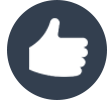
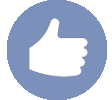
Implementation like

diff --git a/template/liste.html b/template/liste.html
@@ -45,14 +45,14 @@
     <div class="tiret"></div>
     <div>
         <div style="float: left">
-            <span class="souris_dessus_souligne souris_dessus_pointer"><img src="../static/images/like.png" width="15">
-                <span *ngIf="!idea?.voteUser">Je vote</span>
-                <span *ngIf="idea?.voteUser">Je ne vote plus</span>
+            <span class="souris_dessus_souligne souris_dessus_pointer">
+                <span *ngIf="!idea?.voteUser" (click)="vote(idea?.id)" style="color: #989898"><img src="../static/images/like.png" width="15"> Je vote</span>
+                <span *ngIf="idea?.voteUser" (click)="vote(idea?.id)" style="color: #7b90bb; font-weight: 600"><img src="../static/images/like-true.png" width="15"> Je vote</span>
              </span>
 
         </div>
         <div style="float: right">
-            <img src="../static/images/nbLike.png" width="15"> <span style="line-height: 17px">{{ idea?.nbVotes }}</span>
+            <img src="../static/images/nbLike.png" width="15"> <span style="line-height: 17px; color: #7b90bb; font-weight: 600">{{ idea?.nbVotes }}</span>
         </div>
         <div style="clear: both"></div>
     </div>

diff --git a/app/liste_idees.component.ts b/app/liste_idees.component.ts
@@ -40,4 +40,28 @@ export class ListeIdeesComponent{
                 () => console.log('Authentication Complete')
             );
     }
+
+    vote(id){
+
+        let creds = JSON.stringify({id: id});
+
+        let headers = new Headers();
+        headers.append('token', localStorage.getItem('token'));
+        headers.append('Content-Type', 'application/x-www-form-urlencoded; charset=UTF-8');
+
+        this.http.post(AppSettings.API_ENDPOINT + 'idea/vote', creds, {
+            headers: headers
+        }).map(res => res.json())
+            .subscribe(
+                data => {
+                    console.log(JSON.parse(data));
+                    this.getIdeasPosted();
+                },
+                err => err.json().message,
+                () => console.log('Authentication Complete')
+            );
+
+
+
+    }
 }

diff --git a/app/app.component.ts b/app/app.component.ts
@@ -61,5 +61,4 @@ export class AppComponent implements OnInit{
         localStorage.removeItem('token');
         this.router.navigate(['Login']);
     }
-
 }
